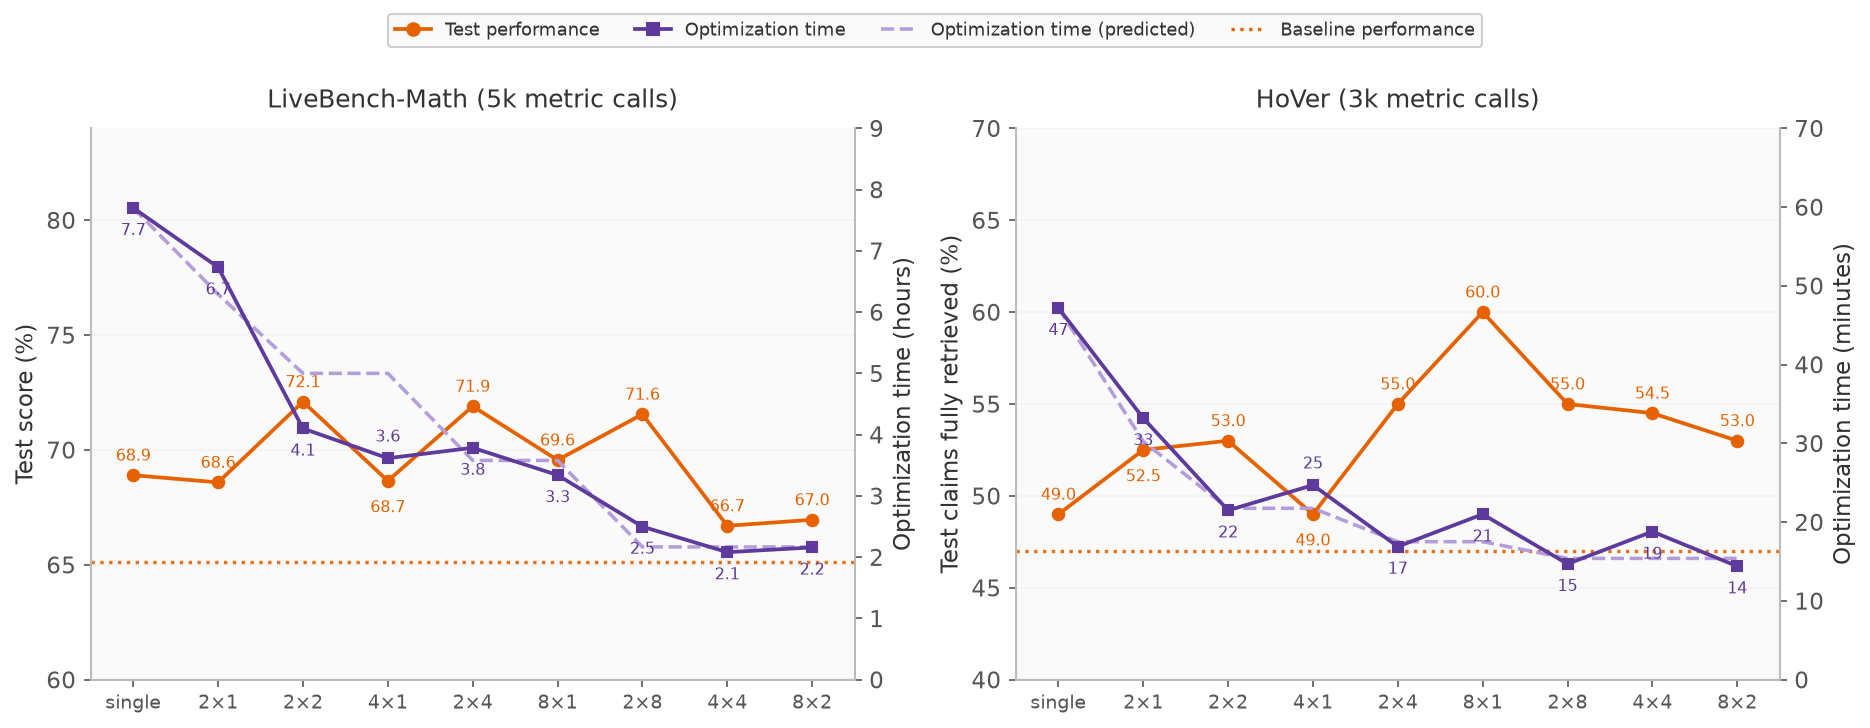
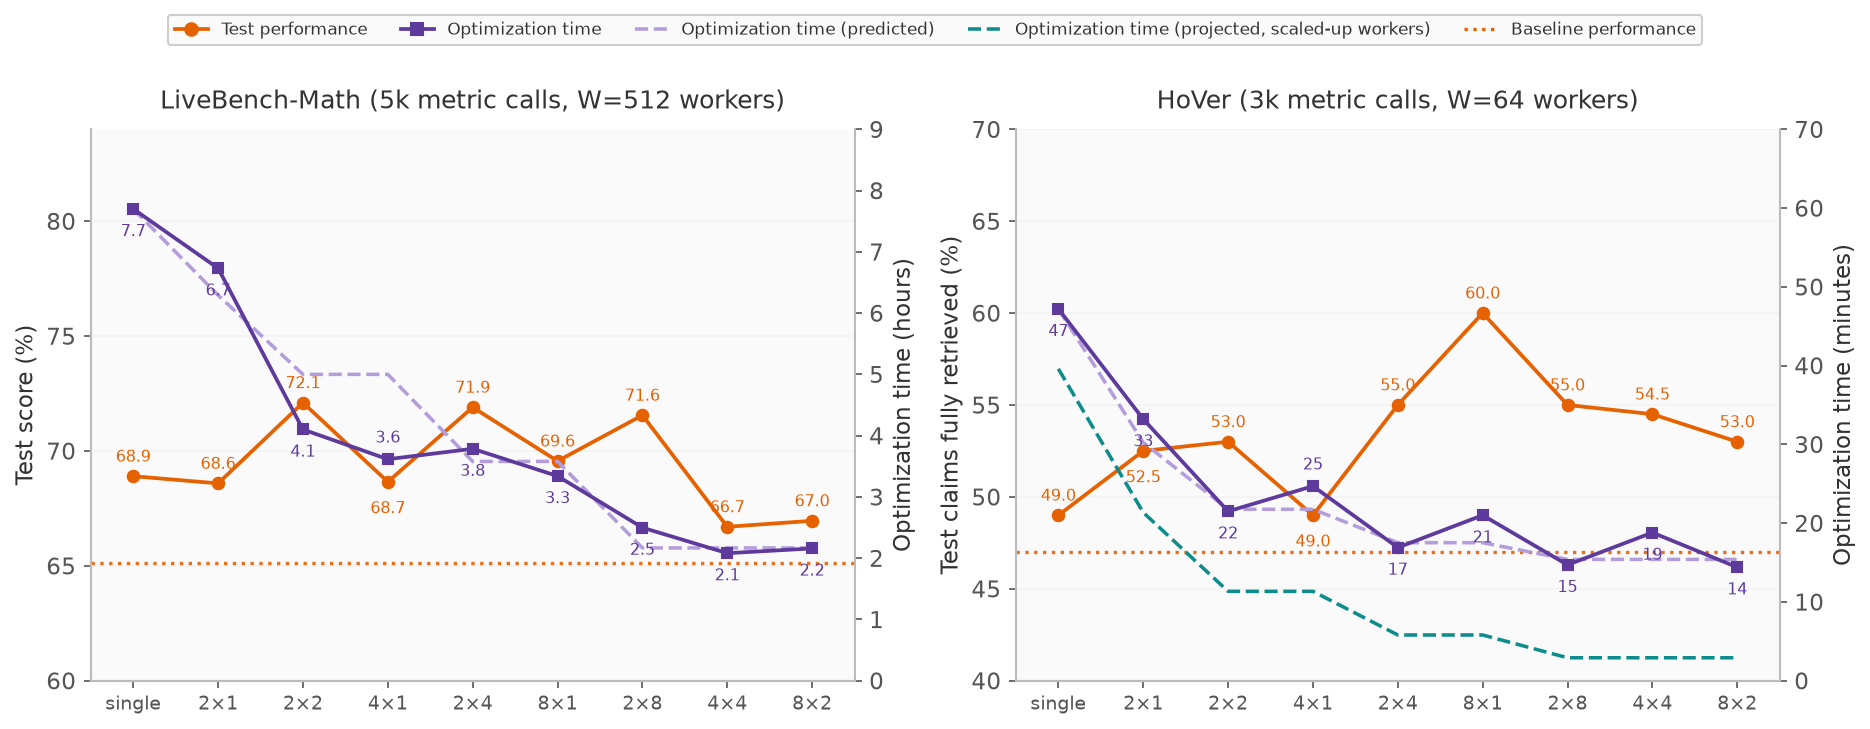
docs(blog): treat the worker pool as a deployment constraint
- Reframe the strong-scaling bound as regime-dependent and the pool as
  a deployment constraint, leaving q_k as the intrinsic
  diminishing-returns effect
- Label Figure 4's predictions with the experimental worker caps and
  add a scaled-workers projection for HoVer
- Size max_concurrency to evaluator capacity in Getting started, note
  system-bound vs API-backed regimes, and mark W as capacity rather
  than a dial in the appendix

diff --git a/docs/docs/blog/posts/2026-07-30-parallel-proposals/index.md b/docs/docs/blog/posts/2026-07-30-parallel-proposals/index.md
@@ -77,11 +77,13 @@ which grows with $k$. Multiplying the per-iteration cost by the number of iterat
 
 $$\frac{T(1)}{T(k)} \approx \frac{k\,(L_{\text{step}} + a\,L_{\text{val}})}{L_{\text{step}} + q_k\,L_{\text{val}}}.$$
 
-In practice, two effects slow wide steps down. First, the reflection stage takes as long as the slowest of its $k$ concurrent calls, so $L_{\text{step}}$ grows with width. Second, evaluation is limited by the worker pool. A validation stage can carry up to $k$ accepted candidates, each evaluated on all $V$ validation examples, so with $W$ concurrent workers and a per-rollout latency of $T_e$,
+In practice, two effects slow wide steps down. First, the reflection stage takes as long as the slowest of its $k$ concurrent calls, so $L_{\text{step}}$ grows with width. Second, evaluation can be limited by the worker pool. A validation stage can carry up to $k$ accepted candidates, each evaluated on all $V$ validation examples, so with $W$ concurrent workers and a per-rollout latency of $T_e$,
 
 $$L_{\text{val}} \approx \begin{cases} T_e & \text{if } kV \le W, \\ (kV/W)\,T_e & \text{if } kV > W. \end{cases}$$
 
-According to strong scaling[^scaling], a run with a budget of $B$ metric calls needs at least $B \cdot T_e / W$ of wall-clock time for evaluation alone. This floor is set by the size of your worker pool. Past that point, widening $P \cdot N$ stops buying wall-clock speedup on a fixed pool, but the floor itself moves out as you add workers or distribute evaluation across Ray, Slurm, or Modal, so $P \cdot N$ keeps scaling with your infrastructure. Our runs used fixed pools of 512 workers on LiveBench-Math and 64 on HoVer, well below what production API limits allow, so the floors in our measurements are properties of those pools, and the same settings can accelerate further with more capacity.
+According to strong scaling[^scaling], a run with a budget of $B$ metric calls needs at least $B \cdot T_e / W$ of wall-clock time for evaluation alone when $W$ is fixed. This bound is most relevant for system-bound workloads, where available CPU or cluster capacity is genuinely fixed. In optimization workloads evaluated against large-scale inference services, however, the worker pool can often be increased substantially; the relevant question is therefore whether the available evaluation infrastructure and rate limits scale with $P \cdot N$.
+
+Rather than treating a finite worker pool as an intrinsic reason to stop scaling $P \cdot N$, we treat it as a deployment constraint. Increasing the worker pool shifts the runtime curve downward, while the growing probability of triggering full validation remains the fundamental diminishing-returns effect.
 
 ## Results
 
@@ -95,11 +97,15 @@ We evaluated parallel proposals on [LiveBench-Math](https://livebench.ai/) and [
 
 ### Batching cuts the wall-clock time and scores higher on held-out tests
 
-The measured runs align with the runtime model above. For example, on LiveBench-Math, moving from single mutation to 2×2 cut the number of iterations by 4.9× (219 to 45), but the fraction of iterations that triggered full validation rose from 17% to 53%, so the run gained a 1.9× speedup (7.7 to 4.1 hours). Across the whole sweep, Figure 4 shows the measured runtimes tracking the model's predicted curve. When scaling up to 16-way parallelism, the speedup is about 3 to 4×.
+The measured runs align with the runtime model above. For example, on LiveBench-Math, moving from single mutation to 2×2 cut the number of iterations by 4.9× (219 to 45), but the fraction of iterations that triggered full validation rose from 17% to 53%, so the run gained a 1.9× speedup (7.7 to 4.1 hours).
+
+Figure 4 compares the measured runtimes with predictions under the worker limits used in our experiments: 512 workers for LiveBench-Math and 64 for HoVer. These limits flatten the curve at high width, so the observed 3 to 4× speedup at 16-way parallelism is not the performance limit of parallel proposals. It is the result under these particular worker-pool settings.
+
+To show the headroom available when evaluation capacity scales with the workload, Figure 4 also projects the HoVer runtimes with a scaled-up worker pool. This projection separates the removable worker-pool bottleneck from the intrinsic diminishing returns caused by more frequent full validation at larger widths: even with limited workers, batching delivers a predictable speedup, and scaling the pool extends it.
 
 <figure markdown="span">
-  ![Two dual-axis line charts across the nine settings from single to 8×2: an orange line with held-out test performance on the left axis, a purple line with optimization time on the right axis, a dashed lighter-purple curve with the optimization time predicted by the finite-worker model, and a dotted baseline. Measured time falls from 7.7 hours to about 2 on LiveBench-Math and from 47 to 14 minutes on HoVer, and the predicted curve tracks it, flattening near 2.2 hours and 15 minutes. Test performance ranges from 66.7 to 72.1 on LiveBench-Math and from 49.0 to 60.0 on HoVer against single mutation's 68.9 and 49.0.](images/scaling_lines.png){ style="width: 100%;" }
-  <figcaption>Figure 4. As the per-step width P·N scales up, runtime falls with diminishing returns, following the optimization time predicted by our runtime model. Most settings perform as well as or better than single mutation on test, and the best setting scores much higher.</figcaption>
+  ![Two dual-axis line charts across the nine settings from single to 8×2: an orange line with held-out test performance on the left axis, a purple line with optimization time on the right axis, a dashed lighter-purple curve with the optimization time predicted under each task's worker pool (512 for LiveBench-Math, 64 for HoVer), a dotted baseline, and, on HoVer only, a teal dashed projection with a scaled-up worker pool. Measured time falls from 7.7 hours to about 2 on LiveBench-Math and from 47 to 14 minutes on HoVer; the prediction tracks it, and the HoVer projection falls to about 3 minutes at width 16. Test performance ranges from 66.7 to 72.1 on LiveBench-Math and from 49.0 to 60.0 on HoVer against single mutation's 68.9 and 49.0.](images/scaling_lines.png){ style="width: 100%;" }
+  <figcaption>Figure 4. As the per-step width P·N scales up, runtime falls with diminishing returns. The finite-worker prediction matches the experimental setup, and the projected HoVer curve shows how scaling evaluation capacity reduces runtime further. Most settings perform as well as or better than single mutation on test, and the best setting scores much higher.</figcaption>
 </figure>
 
 Figure 4 also shows that most batched settings match or beat single mutation on the held-out tests, and the best settings reach 72.1% against 68.9% on LiveBench-Math (2×2) and 60.0% against 49.0% on HoVer (8×1).
@@ -159,7 +165,9 @@ result = optimize_anything(
 )
 ```
 
-GEPA by default calls your `evaluate` function in parallel, so all you need is to set the maximum number of workers through `max_concurrency`. Optionally, you may provide a custom `batch_evaluate` function via the `batch_evaluator` argument. Since the GEPA engine remains single-threaded and dependency-free, the parallelism is entirely yours to choose. You can plug in any concurrency or distributed-execution framework (Ray, Slurm, Modal, Daytona, and more) to run your evaluations, and any inference backend that supports batch completion to run reflections in parallel, with no changes to GEPA itself. You may also choose or define other sampling and selection strategies. See the [API reference](https://gepa-ai.github.io/gepa/api/) for more details. 
+GEPA by default calls your `evaluate` function in parallel, so set `max_concurrency` high enough to match the capacity of your evaluator and inference provider. Optionally, you may provide a custom `batch_evaluate` function via the `batch_evaluator` argument. Since the GEPA engine remains single-threaded and dependency-free, the parallelism is entirely yours to choose. You can plug in any concurrency or distributed-execution framework (Ray, Slurm, Modal, Daytona, and more) to run your evaluations, and any inference backend that supports batch completion to run reflections in parallel, with no changes to GEPA itself. You may also choose or define other sampling and selection strategies. See the [API reference](https://gepa-ai.github.io/gepa/api/) for more details.
+
+For system-bound evaluations, `max_concurrency` may be constrained by available CPU, GPU, or cluster capacity. For API-backed optimization, much larger worker pools may be practical, subject to provider rate limits and budget. 
 
 ## Appendix: Axes of parallel scaling
 
@@ -168,7 +176,7 @@ GEPA by default calls your `evaluate` function in parallel, so all you need is t
   <figcaption>Figure 7. Scaling axes for the optimization step: more parents per step (P), more mutations per parent (N), and a larger reflection mini-batch per mutation (ComBEE).</figcaption>
 </figure>
 
-Parallel proposals fit into the bigger picture of scaling each reflection optimization step along several dials. P controls how many programs are selected for mutation at each step, and N controls how many mutations are proposed for each selected program. A third dial is the size of the reflection mini-batch per mutation: approaches like [ComBEE](https://gepa-ai.github.io/gepa/blog/2026/04/09/gepa-at-scale-with-combee/) scale this dial by reflecting on larger mini-batches of examples and rollouts through a map-reduce-style pipeline. Finally, a fourth dial is the compute spent within each reflection step. It can be turned up by using stronger reflection programs ranging from a single LM call to chain-of-thought, multi-step pipelines, or agentic workflows such as [Claude Code](https://gepa-ai.github.io/gepa/guides/claude-cli-as-proposer/). In each case, more compute is spent to produce a higher-information mutation at each step.
+Parallel proposals fit into the bigger picture of scaling each reflection optimization step along several dials. The worker pool $W$ is not itself an optimization dial: it is execution capacity that can constrain the observed benefits of scaling P and N when held fixed. P controls how many programs are selected for mutation at each step, and N controls how many mutations are proposed for each selected program. A third dial is the size of the reflection mini-batch per mutation: approaches like [ComBEE](https://gepa-ai.github.io/gepa/blog/2026/04/09/gepa-at-scale-with-combee/) scale this dial by reflecting on larger mini-batches of examples and rollouts through a map-reduce-style pipeline. Finally, a fourth dial is the compute spent within each reflection step. It can be turned up by using stronger reflection programs ranging from a single LM call to chain-of-thought, multi-step pipelines, or agentic workflows such as [Claude Code](https://gepa-ai.github.io/gepa/guides/claude-cli-as-proposer/). In each case, more compute is spent to produce a higher-information mutation at each step.
 
 With this, GEPA now exposes four independently tunable dials for spending more optimization compute per step: P, N, reflection mini-batch (ComBEE), and reflection compute (reflection LM, proposers). They interact through a shared optimization budget.
 
